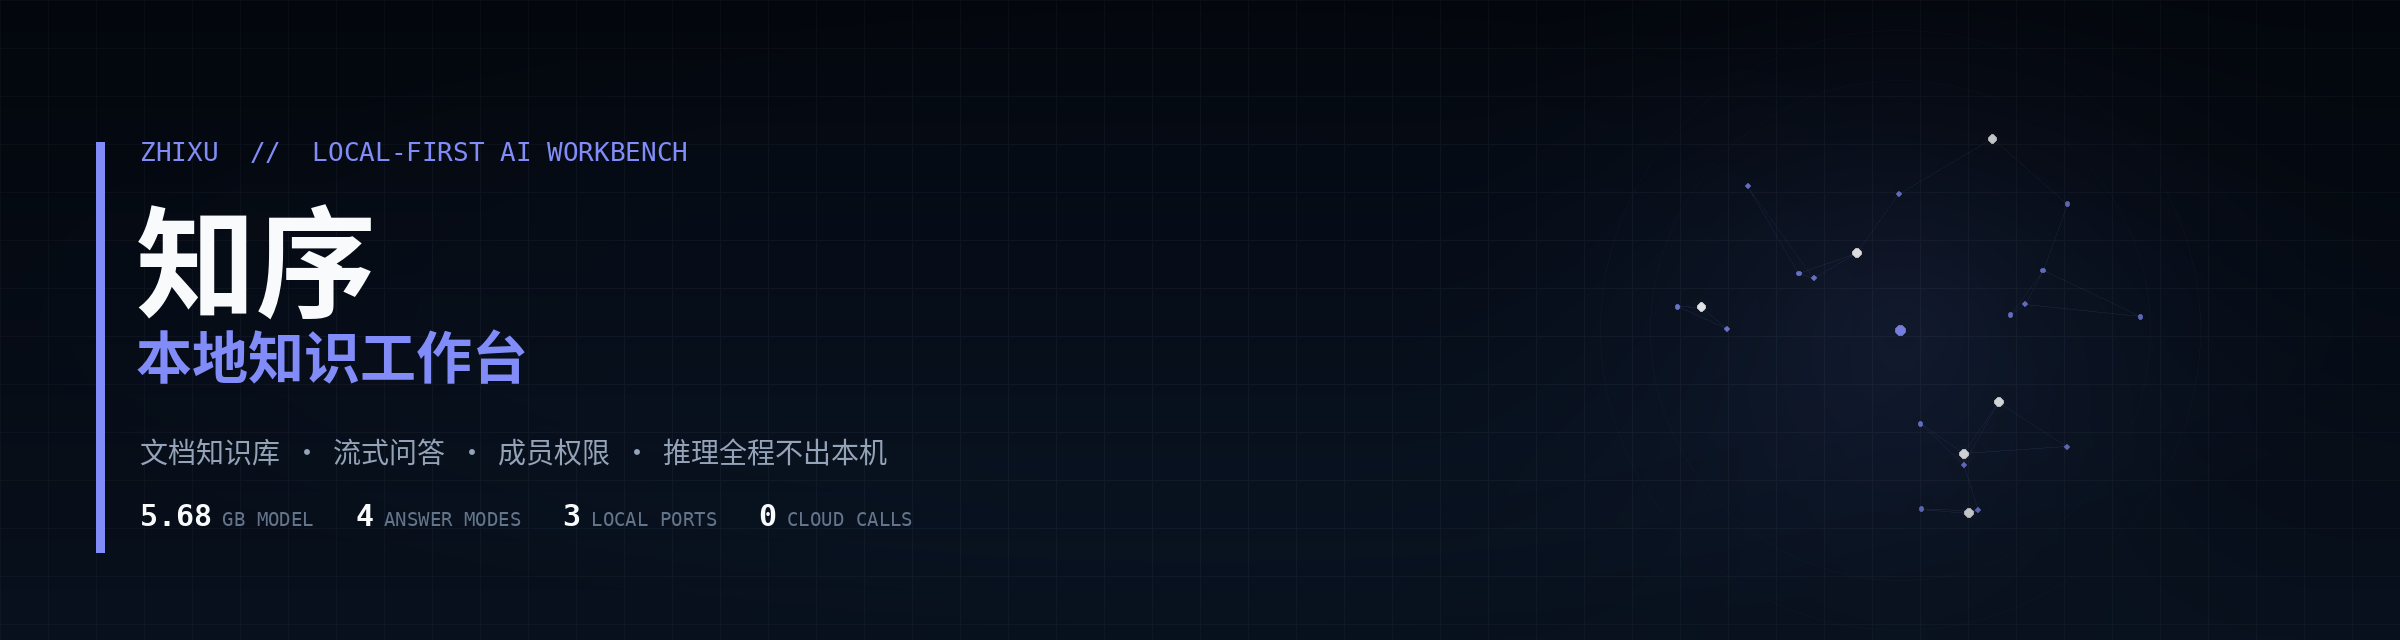
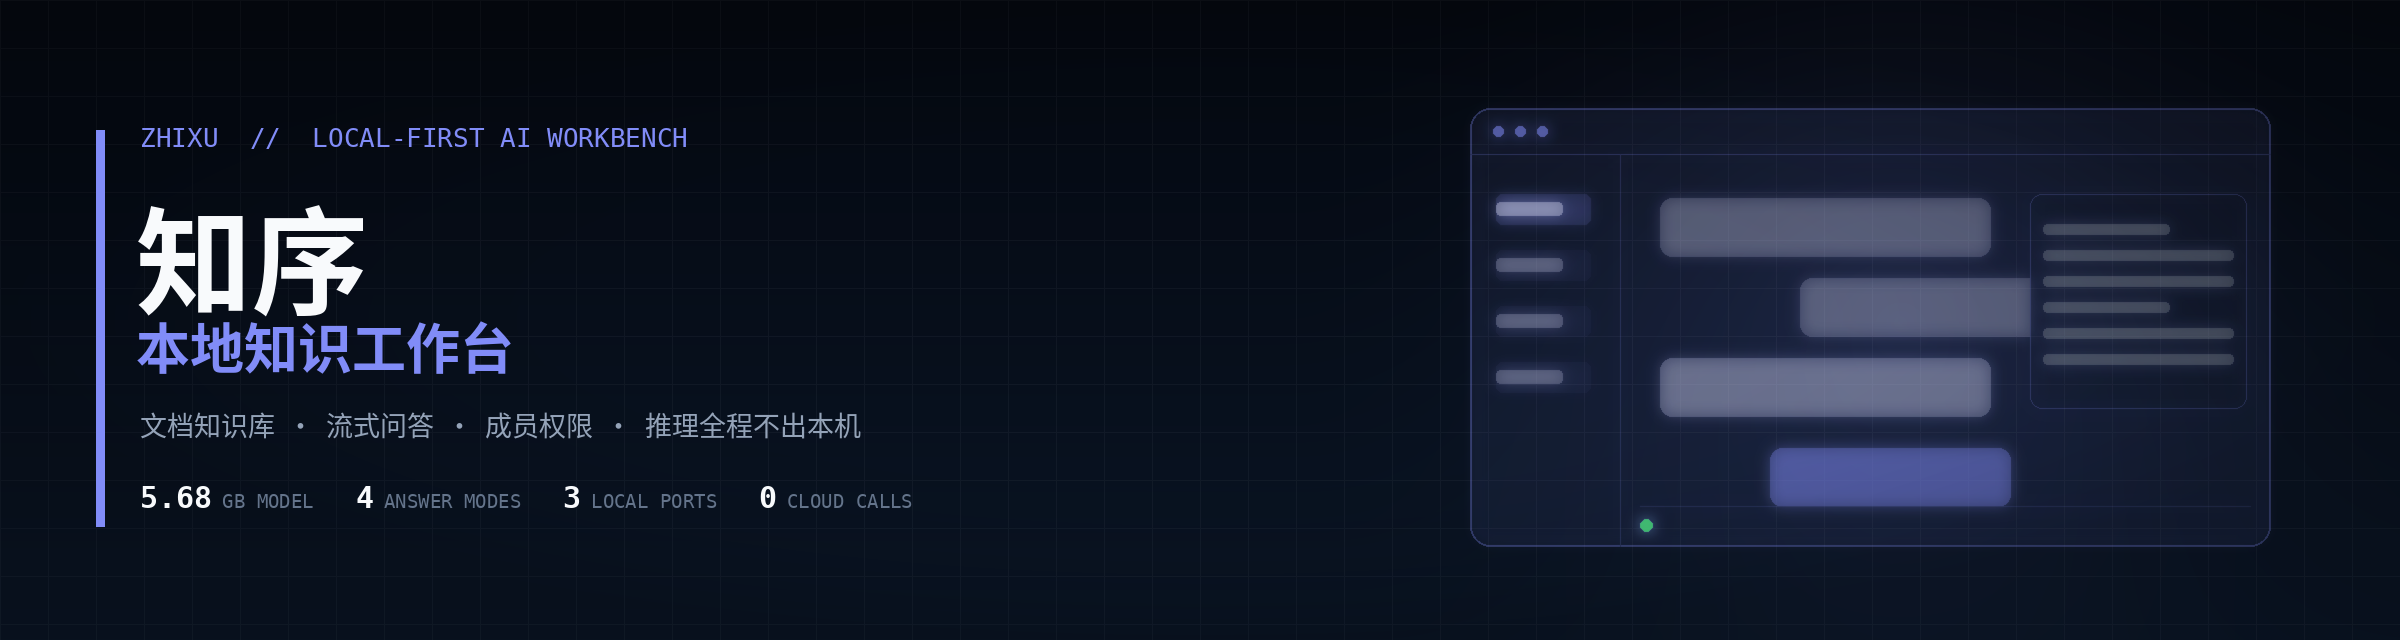
docs(readme): 头图改为工作台界面，开篇改为价值优先
- 头图：侧栏 + 对话气泡 + 文档卡片，贴合本地知识工作台形态
- 开篇把「数据不离机」放在最前，试点边界下沉到文末
- 生成脚本随仓库提供，可复现

diff --git a/docs/assets/generate_banner.py b/docs/assets/generate_banner.py
@@ -1,8 +1,5 @@
 #!/usr/bin/env python3
-"""README banner generator (shared style, per-project config).
-
-Usage: python3 generate_banner.py [output]
-"""
+"""Bespoke README banners, one composition per project."""
 import sys
 from pathlib import Path
 
@@ -10,161 +7,134 @@ import numpy as np
 from PIL import Image, ImageDraw, ImageFilter, ImageFont
 
 W, H = 2400, 640
-CJK = "/usr/share/fonts/opentype/noto/NotoSansCJK-Bold.ttc"
+CJK_B = "/usr/share/fonts/opentype/noto/NotoSansCJK-Bold.ttc"
 CJK_R = "/usr/share/fonts/opentype/noto/NotoSansCJK-Regular.ttc"
 FONT_DIR = Path("/usr/share/matplotlib/mpl-data/fonts/ttf")
-MONO = FONT_DIR / "DejaVuSansMono.ttf"
-MONO_B = FONT_DIR / "DejaVuSansMono-Bold.ttf"
+WHITE = (248, 250, 252)
 
 
-def font(path, size, index=0):
-    return ImageFont.truetype(str(path), size, index=index)
+def f_cjk(size, bold=True):
+    return ImageFont.truetype(CJK_B if bold else CJK_R, size, index=2)
 
 
-def cjk(size, bold=True):
-    return font(CJK if bold else CJK_R, size, index=2)
+def f_sans(size):
+    return ImageFont.truetype(str(FONT_DIR / "DejaVuSans-Bold.ttf"), size)
+
+
+def f_mono(size, bold=False):
+    return ImageFont.truetype(str(FONT_DIR / ("DejaVuSansMono-Bold.ttf" if bold else "DejaVuSansMono.ttf")), size)
+
+
+def use_cjk(text):
+    return any(ord(ch) > 0x2E80 for ch in text)
 
 
 CONFIGS = {
     "zhixu": dict(
         kicker="ZHIXU  //  LOCAL-FIRST AI WORKBENCH",
-        lines=[("知序", 120, "white"), ("本地知识工作台", 56, "accent")],
+        lines=[("知序", 116), ("本地知识工作台", 54)],
         subtitle="文档知识库  ·  流式问答  ·  成员权限  ·  推理全程不出本机",
         metrics=[("5.68", "GB MODEL"), ("4", "ANSWER MODES"), ("3", "LOCAL PORTS"), ("0", "CLOUD CALLS")],
-        accent=(129, 140, 248),
-        motif="network",
-        seed=23,
+        accent=(129, 140, 248), text_y=136, subtitle_y=404, metrics_y=480,
     ),
 }
 
 
-def gradient(top, bottom):
-    t = np.linspace(0, 1, H)[:, None, None]
-    return np.repeat(np.array(top)[None, None, :] * (1 - t) + np.array(bottom)[None, None, :] * t, W, axis=1)
-
-
 def base():
-    img = gradient((5, 9, 17), (11, 22, 38))
+    t = np.linspace(0, 1, H)[:, None, None]
+    img = np.repeat(np.array((5, 9, 17))[None, None, :] * (1 - t)
+                    + np.array((11, 22, 38))[None, None, :] * t, W, axis=1)
     ys, xs = np.mgrid[0:H, 0:W].astype(float)
     img[((xs % 48) < 1) | ((ys % 48) < 1)] += 9.0
     return img
 
 
-def soft_ring(img, cx, cy, radius, accent, strength=0.22):
+def vignette(canvas):
     ys, xs = np.mgrid[0:H, 0:W].astype(float)
-    r = np.hypot(xs - cx, ys - cy)
-    ring = np.abs(r - radius) < 1.1
-    img += ring[..., None] * np.array(accent) * strength
+    vx = (xs - W / 2) / (W / 2)
+    vy = (ys - H / 2) / (H / 2)
+    vig = 1.0 - 0.20 * np.clip(vx ** 2 + vy ** 2, 0, 1) ** 1.5
+    arr = np.asarray(canvas.convert("RGB"), dtype=float) * vig[..., None]
+    return Image.fromarray(np.clip(arr, 0, 255).astype(np.uint8), "RGB").convert("RGBA")
 
 
-def motif_network(ov, d, accent, seed, cx=1900, cy=330, radius=255):
-    rng = np.random.default_rng(seed)
-    pts = []
-    while len(pts) < 22:
-        x, y = rng.uniform(-1, 1, 2)
-        if x * x + y * y <= 1.0:
-            pts.append((cx + x * radius, cy + y * radius))
-    for i, p in enumerate(pts):
-        near = sorted(((np.hypot(p[0] - q[0], p[1] - q[1]), j) for j, q in enumerate(pts) if j != i))[:2]
-        for _, j in near:
-            d.line([p, pts[j]], fill=accent + (34,), width=1)
-    for ring in (250, 300):
-        d.ellipse([cx - ring, cy - ring, cx + ring, cy + ring], outline=accent + (12,), width=1)
-    for i, p in enumerate(pts):
-        rr = 4.4 if i % 4 == 0 else 2.4
-        color = (248, 250, 252, 235) if i % 4 == 0 else accent + (205,)
-        d.ellipse([p[0] - rr, p[1] - rr, p[0] + rr, p[1] + rr], fill=color)
-    d.ellipse([cx - 5, cy - 5, cx + 5, cy + 5], fill=accent + (240,))
+def halo(img, cx, cy, accent, radius=600, strength=0.20):
+    ys, xs = np.mgrid[0:H, 0:W].astype(float)
+    d = np.hypot(xs - cx, ys - cy) / radius
+    img += (np.clip(1 - d, 0, 1) ** 2 * strength)[..., None] * np.array(accent) * 0.6
 
 
-def motif_wave(d, accent, cx=1890, cy=330):
-    rng = np.random.default_rng(5)
-    n = 64
-    span = 780
-    bw = 7
-    gap = (span - n * bw) / (n - 1)
-    for i in range(n):
-        x = cx - span / 2 + i * (bw + gap)
-        env = np.exp(-((i - n / 2) / (n / 2.6)) ** 2)
-        h = 30 + 250 * env * (0.25 + 0.75 * abs(np.sin(i * 0.55 + rng.normal(0, 0.15))))
-        alpha = int(40 + 150 * env)
-        d.rounded_rectangle([x, cy - h, x + bw, cy + h], radius=bw / 2, fill=accent + (alpha,))
-    d.line([cx - span / 2 - 20, cy, cx + span / 2 + 20, cy], fill=accent + (40,), width=1)
+def draw_text(canvas, cfg):
+    d = ImageDraw.Draw(canvas)
+    accent = cfg["accent"]
+    left, y = 140, cfg["text_y"]
+    d.rectangle((96, cfg["text_y"] - 6, 104, cfg["metrics_y"] + 46), fill=accent + (190,))
+    d.text((left, y - 14), cfg["kicker"], font=f_mono(26), fill=accent + (255,))
+    y += 34
+    for i, (text, size) in enumerate(cfg["lines"]):
+        f = f_cjk(size) if use_cjk(text) else f_sans(size)
+        d.text((left - 4, y), text, font=f, fill=(WHITE if i == 0 else accent) + (255,))
+        y += int(size * 1.14) + 4
+    d.text((left, cfg["subtitle_y"]), cfg["subtitle"], font=f_cjk(27, bold=False), fill=(148, 163, 184, 255))
+    x = left
+    for value, label in cfg["metrics"]:
+        d.text((x, cfg["metrics_y"]), value, font=f_mono(30, True), fill=WHITE + (255,))
+        wv = d.textlength(value, font=f_mono(30, True))
+        d.text((x + wv + 10, cfg["metrics_y"] + 10), label, font=f_mono(19), fill=(100, 116, 139, 255))
+        x += wv + 10 + d.textlength(label, font=f_mono(19)) + 42
 
 
-def motif_grid(d, accent, cx=1900, cy=330):
-    cols, rows, cell, gap = 7, 5, 74, 14
-    x0 = cx - (cols * cell + (cols - 1) * gap) / 2
-    y0 = cy - (rows * cell + (rows - 1) * gap) / 2
-    hot = {(1, 1), (3, 2), (5, 1), (2, 3), (4, 0)}
-    for r in range(rows):
-        for c in range(cols):
-            x = x0 + c * (cell + gap)
-            y = y0 + r * (cell + gap)
-            if (c, r) in hot:
-                d.rounded_rectangle([x, y, x + cell, y + cell], radius=10, fill=accent + (70,), outline=accent + (200,), width=2)
-                d.ellipse([x + cell / 2 - 7, y + cell / 2 - 7, x + cell / 2 + 7, y + cell / 2 + 7], fill=accent + (230,))
-            else:
-                d.rounded_rectangle([x, y, x + cell, y + cell], radius=10, outline=accent + (34,), width=1)
+# ---------------------------------------------------------------- motifs
+
+def motif_window(ov, accent):
+    d = ImageDraw.Draw(ov)
+    x0, y0, x1, y1 = 1470, 108, 2270, 546
+    d.rounded_rectangle([x0, y0, x1, y1], radius=20, fill=accent + (10,), outline=accent + (95,), width=2)
+    d.line([x0, y0 + 46, x1, y0 + 46], fill=accent + (70,), width=1)
+    for i in range(3):
+        cx = x0 + 28 + i * 22
+        d.ellipse([cx - 5, y0 + 18, cx + 5, y0 + 28], fill=accent + (150,))
+    d.line([x0 + 150, y0 + 46, x0 + 150, y1], fill=accent + (55,), width=1)
+    for i in range(4):
+        yy = y0 + 86 + i * 56
+        d.rounded_rectangle([x0 + 26, yy, x0 + 120, yy + 30], radius=6, fill=accent + (18 if i else 42,))
+        d.rounded_rectangle([x0 + 26, yy + 8, x0 + 92, yy + 21], radius=4, fill=(209, 213, 255, 70 if i else 120))
+    bubbles = [(x0 + 190, y0 + 90, 330, (209, 213, 255, 55)),
+               (x0 + 330, y0 + 170, 240, (209, 213, 255, 55)),
+               (x0 + 190, y0 + 250, 330, (209, 213, 255, 70)),
+               (x0 + 300, y0 + 340, 240, accent + (95,))]
+    for bx, by, w, c in bubbles:
+        d.rounded_rectangle([bx, by, bx + w, by + 58], radius=12, fill=c)
+    cx0, cx1 = x0 + 560, x1 - 24
+    d.rounded_rectangle([cx0, y0 + 86, cx1, y0 + 300], radius=12,
+                        outline=accent + (70,), width=1, fill=accent + (8,))
+    for i in range(6):
+        width = (cx1 - cx0 - 26) if i % 3 else (cx1 - cx0 - 90)
+        d.rounded_rectangle([cx0 + 13, y0 + 116 + i * 26,
+                             cx0 + 13 + width, y0 + 126 + i * 26],
+                            radius=4, fill=(203, 213, 225, 60))
+    d.line([x0 + 170, y1 - 40, x1 - 20, y1 - 40], fill=accent + (45,), width=1)
+    d.ellipse([x0 + 170, y1 - 27, x0 + 182, y1 - 15], fill=(74, 222, 128, 220))
 
 
-def render(name, out):
-    cfg = CONFIGS[name]
+def render(out):
+    cfg = CONFIGS["zhixu"]
     accent = cfg["accent"]
     img = base()
-
-    # soft halo behind the motif
-    ys, xs = np.mgrid[0:H, 0:W].astype(float)
-    d2 = np.hypot(xs - 1900, ys - 330) / 520.0
-    halo = np.clip(1 - d2, 0, 1) ** 2 * 0.16
-    img += halo[..., None] * np.array(accent) * 0.55
+    halo(img, 1900, 320, accent, 620, 0.20)
 
     ov = Image.new("RGBA", (W, H), (0, 0, 0, 0))
     d = ImageDraw.Draw(ov)
-    if cfg["motif"] == "network":
-        motif_network(ov, d, accent, cfg["seed"])
-    elif cfg["motif"] == "wave":
-        motif_wave(d, accent)
-    else:
-        motif_grid(d, accent)
+    motif_window(ov, accent)
 
-    glow = ov.filter(ImageFilter.GaussianBlur(9))
     canvas = Image.fromarray(np.clip(img, 0, 255).astype(np.uint8), "RGB").convert("RGBA")
-    canvas = Image.alpha_composite(canvas, glow)
+    canvas = Image.alpha_composite(canvas, ov.filter(ImageFilter.GaussianBlur(7)))
     canvas = Image.alpha_composite(canvas, ov.filter(ImageFilter.GaussianBlur(0.4)))
-
-    # vignette before text
-    vx = (xs - W / 2) / (W / 2)
-    vy = (ys - H / 2) / (H / 2)
-    vig = 1.0 - 0.22 * np.clip(vx ** 2 + vy ** 2, 0, 1) ** 1.4
-    arr = np.asarray(canvas.convert("RGB"), dtype=float) * vig[..., None]
-    canvas = Image.fromarray(np.clip(arr, 0, 255).astype(np.uint8), "RGB").convert("RGBA")
-
-    d = ImageDraw.Draw(canvas)
-    d.rectangle((96, 142, 104, 552), fill=accent + (190,))
-    left = 140
-    d.text((left, 136), cfg["kicker"], font=font(MONO, 26), fill=accent + (255,))
-
-    y = 168
-    for text, size, color in cfg["lines"]:
-        f = cjk(size) if any(ord(ch) > 0x2E80 for ch in text) else font(FONT_DIR / "DejaVuSans-Bold.ttf", size)
-        d.text((left - 4, y), text, font=f, fill=(248, 250, 252, 255) if color == "white" else accent + (255,))
-        y += int(size * 1.16) + 6
-
-    d.text((left, 430), cfg["subtitle"], font=cjk(28, bold=False), fill=(148, 163, 184, 255))
-
-    x = left
-    for value, label in cfg["metrics"]:
-        if not value:
-            continue
-        d.text((x, 498), value, font=font(MONO_B, 30), fill=(248, 250, 252, 255))
-        wv = d.textlength(value, font=font(MONO_B, 30))
-        d.text((x + wv + 10, 508), label, font=font(MONO, 19), fill=(100, 116, 139, 255))
-        x += wv + 10 + d.textlength(label, font=font(MONO, 19)) + 42
-
+    canvas = vignette(canvas)
+    draw_text(canvas, cfg)
     canvas.convert("RGB").save(out, optimize=True)
     print(f"wrote {out} ({Path(out).stat().st_size / 1024:.0f} KB)")
 
 
 if __name__ == "__main__":
-    render("zhixu", sys.argv[1] if len(sys.argv) > 1 else "banner.png")
+    render(sys.argv[1] if len(sys.argv) > 1 else "banner.png")

diff --git a/README.md b/README.md
@@ -19,9 +19,6 @@
 
 ---
 
-> [!IMPORTANT]
-> 这是**可运行的企业本地试点版本**（v0.3.1），不是生产部署：默认仅监听回环地址，SSO、HTTPS 代理、离机灾备等仍在待办清单中。详见 [部署边界](#部署边界与已知限制) 与 [实施状态](docs/implementation-status.md)。
-
 | 本地模型 | 回答模式 | 本地端口 | 云端调用 |
 | :---: | :---: | :---: | :---: |
 | **5.68 GB** | **4 种** | **3 个** | **0 次** |
@@ -35,6 +32,8 @@
 - **推理与资料留在本机**：Qwen3.5-9B（Q4_K_M，SHA256 锁定）经 llama.cpp Metal 在 Mac 上运行，文档、会话、审计保存在本机 SQLite。
 - **权限先于检索**：文档按私有 / 组 / 全体可见分层，检索、引用、下载都过同一套 ACL；管理员不绕过他人私有文档。
 - **联网是可审计的例外**：只有「服务端开关 + 账号白名单 + 用户显式触发」三个条件同时满足，才把**当前公开问题**发往搜索服务，不带历史与知识库。
+
+一句话：把 ChatGPT 式的工作台装进一台 Mac——**问题、文档、会话、审计记录都不出机器**。当前为企业试点版本（v0.3.1），单机部署、默认只监听回环，边界见 [部署边界](#部署边界与已知限制)。
 
 ## 功能
 
